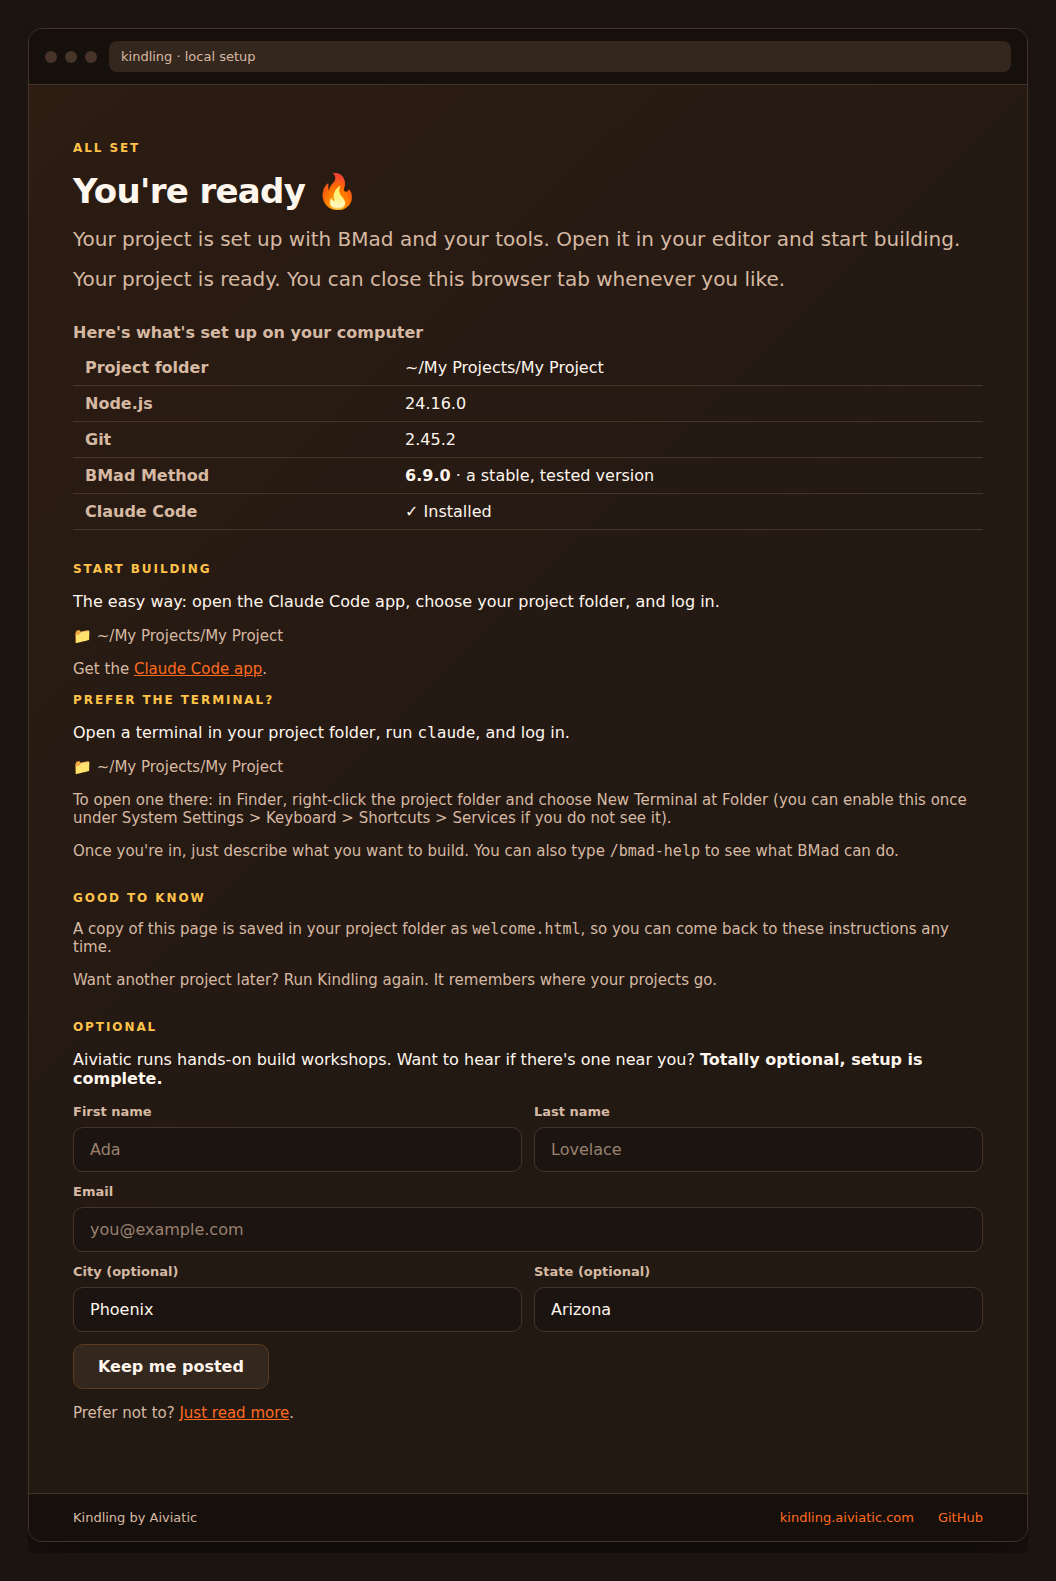
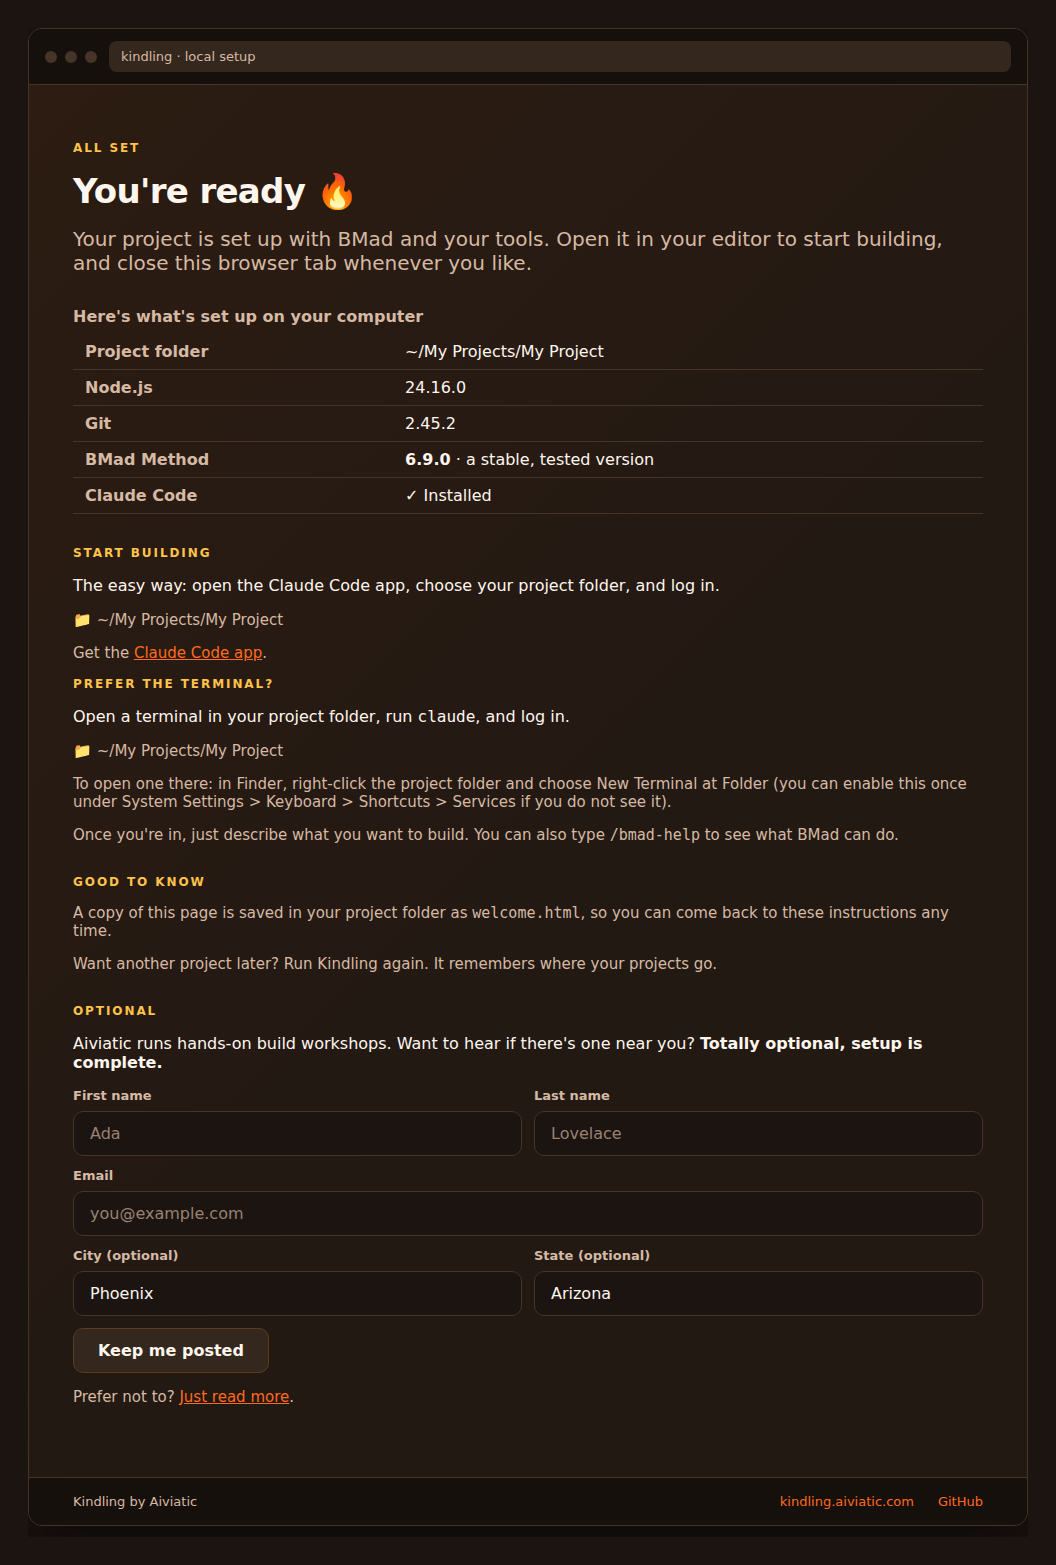
copy(welcome): merge the two redundant ledes into one line
Both the React Welcome and the saved welcome.html said "your project is
ready" twice; fold "open it in your editor" and "close this tab" into a
single lede. Regenerates the welcome README screenshot to match.

Claude-Session: https://claude.ai/code/session_014Ay1bZiDNd65qr6ib2rPoq

diff --git a/server/welcome.ts b/server/welcome.ts
@@ -157,7 +157,7 @@ export function buildWelcomeHtml(data: WelcomeData): string {
 <main>
   <p class="eyebrow">All set</p>
   <h1>You're ready &#128293;</h1>
-  <p class="lede">Your project is set up with BMad and your tools.</p>
+  <p class="lede">Your project is set up with BMad and your tools. Open it in your editor to start building, and close this browser tab whenever you like.</p>
 ${versionsTable}${cliGuidance}  <p class="cli-guidance">Once you're in, just describe what you want to build. You can also type <code>/bmad-help</code> to see what BMad can do.</p>
   <p class="cli-guidance">Want another project later? Run Kindling again. It remembers where your projects go.</p>
   <p><a href="https://aiviatic.com" target="_blank" rel="noreferrer">Join an Aiviatic workshop</a>, totally optional.</p>

diff --git a/ui/screens/Welcome.tsx b/ui/screens/Welcome.tsx
@@ -160,10 +160,8 @@ export function Welcome({ pins, onRendered }: WelcomeProps) {
       <p className="eyebrow">All set</p>
       <h1 id="welcome-h">You're ready 🔥</h1>
       <p className="lede">
-        Your project is set up with BMad and your tools. Open it in your editor and start building.
-      </p>
-      <p className="lede">
-        Your project is ready. You can close this browser tab whenever you like.
+        Your project is set up with BMad and your tools. Open it in your editor to start building,
+        and close this browser tab whenever you like.
       </p>
 
       <table className="versions" data-testid="versions">
